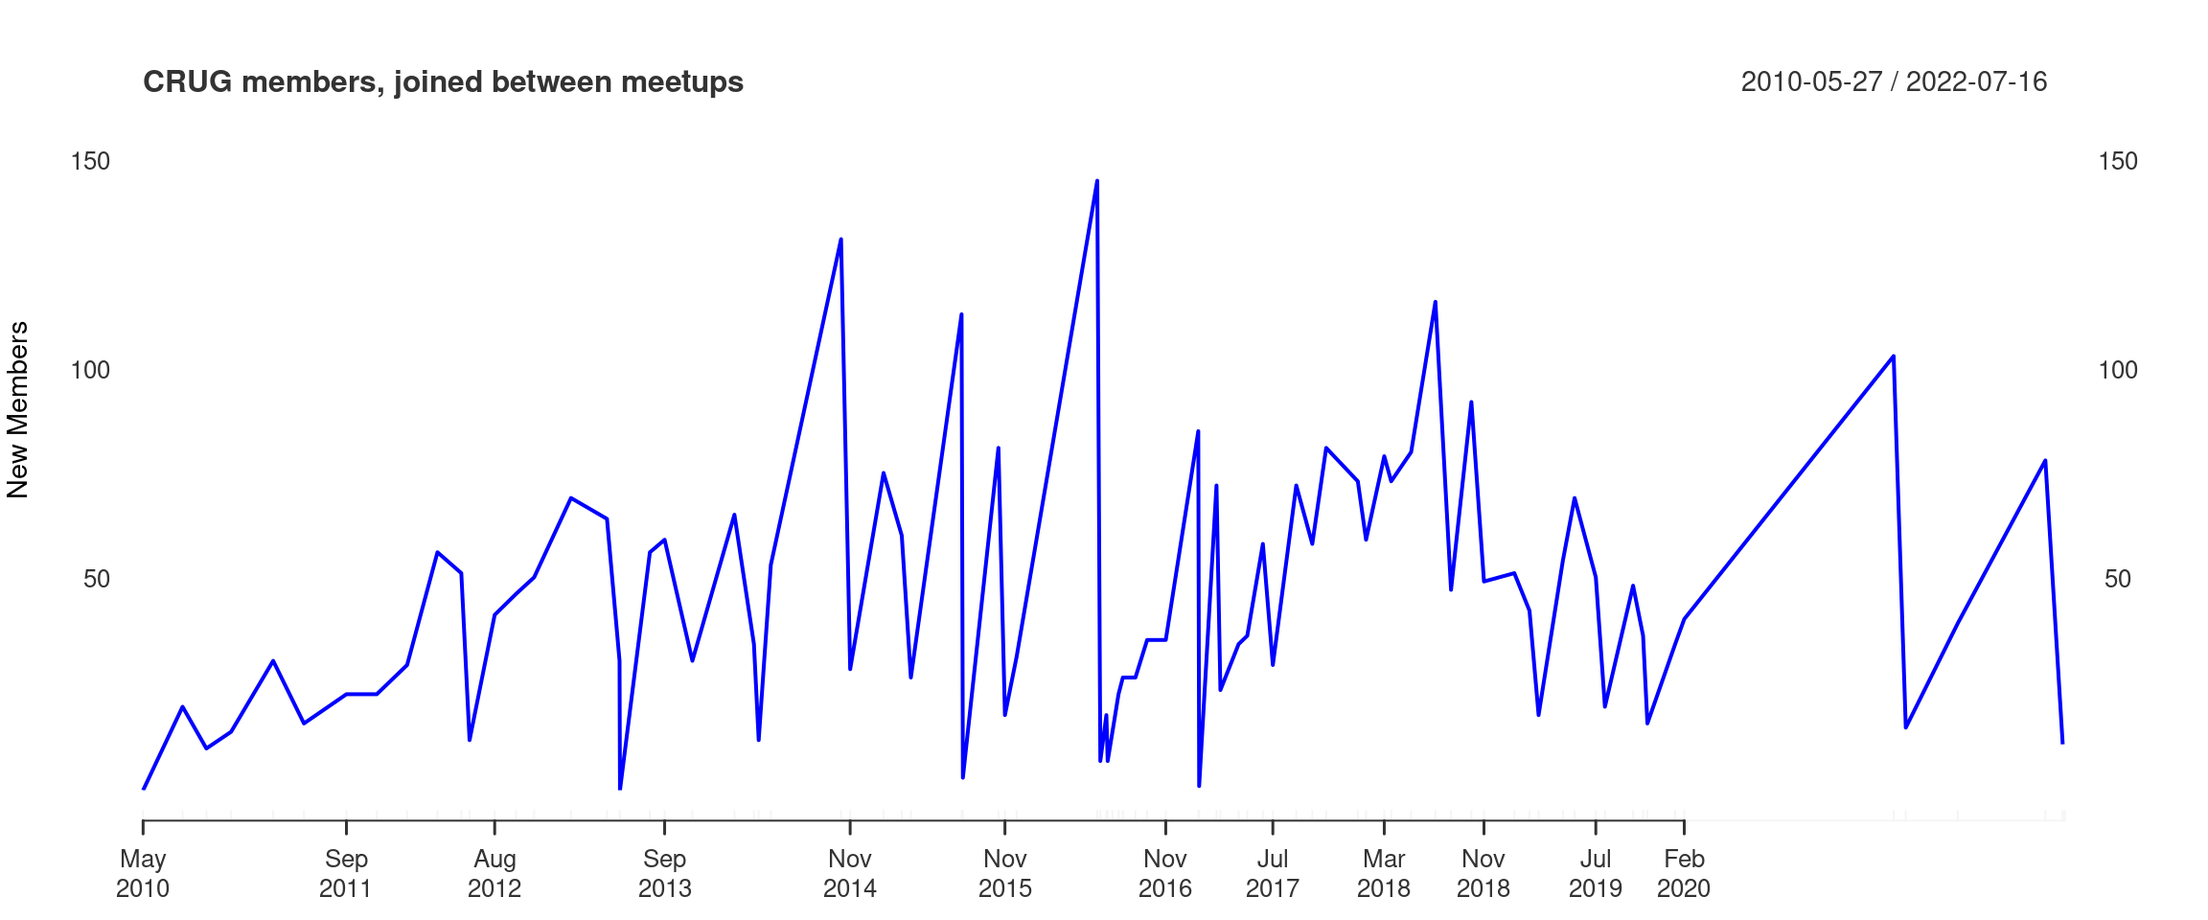
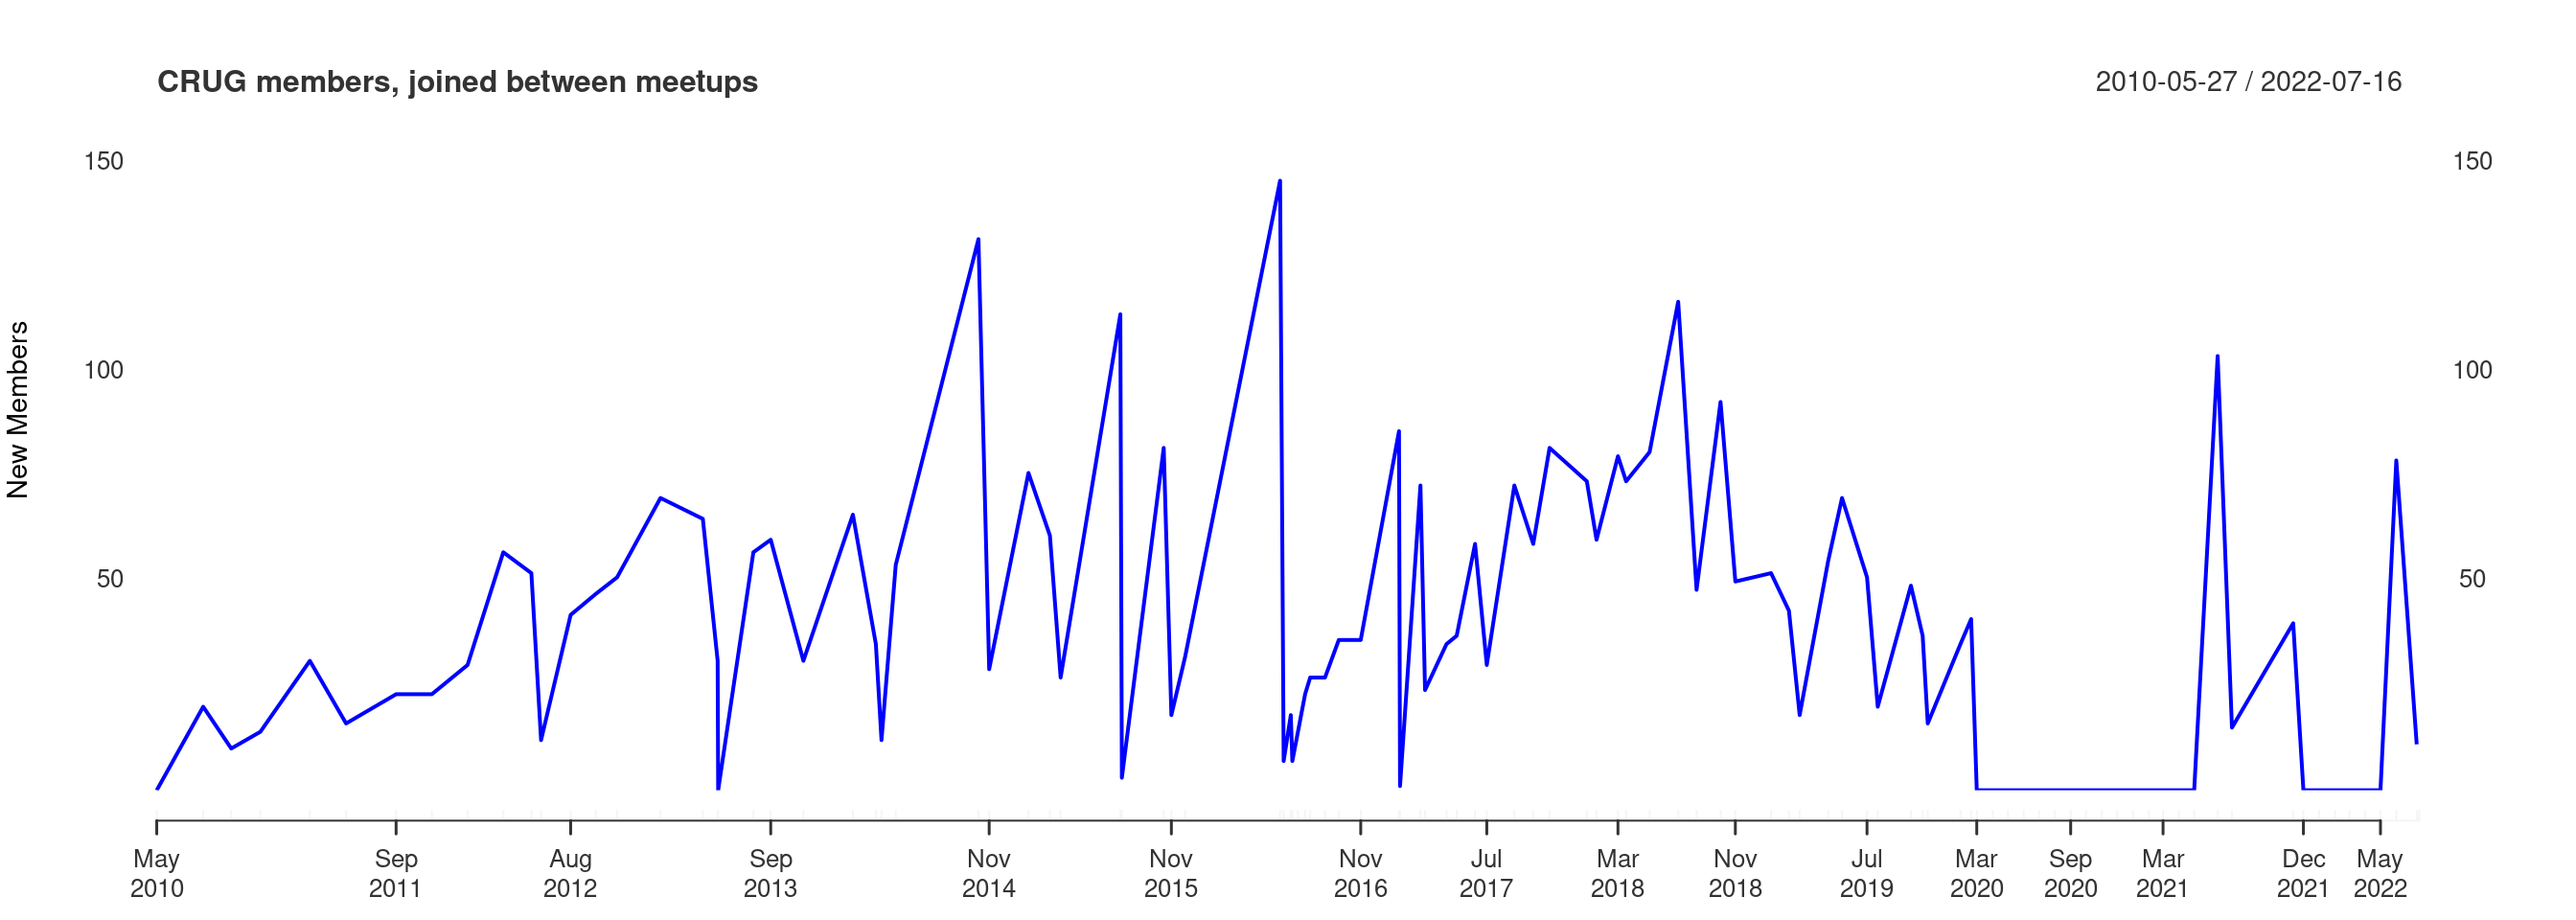
Fix xts time series plot x-axis cut off

diff --git a/index.html b/index.html
@@ -909,7 +909,7 @@ CRUG Attendance Shiny App
 <h1>Membership Data Analysis</h1>
 <p><img src="index_files/figure-html/unnamed-chunk-9-1.png" width="1152" /></p>
 <p><img src="index_files/figure-html/unnamed-chunk-11-1.png" width="1152" /></p>
-<p><img src="index_files/figure-html/unnamed-chunk-12-1.png" width="1152" /></p>
+<p><img src="index_files/figure-html/unnamed-chunk-12-1.png" width="1344" /></p>
 <p><img src="index_files/figure-html/unnamed-chunk-13-1.png" width="1152" /></p>
 <p><img src="index_files/figure-html/unnamed-chunk-14-1.png" width="1152" /></p>
 <table class="table table-striped table-hover" style="margin-left: auto; margin-right: auto;">
@@ -1539,8 +1539,8 @@ Median
 <p><img src="index_files/figure-html/unnamed-chunk-17-1.png" width="1152" /></p>
 <p><br/> <br/></p>
 <div align="center">
-<div id="htmlwidget-5ff38d5bbf334e5b6abb" style="width:100%;height:400px;" class="plotly html-widget"></div>
-<script type="application/json" data-for="htmlwidget-5ff38d5bbf334e5b6abb">{"x":{"visdat":{"b448386731ee":["function () ","plotlyVisDat"]},"cur_data":"b448386731ee","attrs":{"b448386731ee":{"locationmode":"USA-states","alpha_stroke":1,"sizes":[10,100],"spans":[1,20],"z":{},"text":{},"locations":{},"color":{},"colors":"Blues","inherit":true}},"layout":{"margin":{"b":40,"l":5,"t":40,"r":10},"mapType":"geo","scene":{"zaxis":{"title":"Member.ID"}},"geo":{"domain":{"x":[0,1],"y":[0,1]},"scope":"usa","projection":{"type":"albers usa"},"showlakes":true,"lakecolor":"rgba(255,255,255,1)"},"hovermode":"closest","showlegend":false,"legend":{"yanchor":"top","y":0.5},"width":1000,"height":500,"title":"CRUG Members' Locations Across US","font":{"family":"Arial","size":14,"color":"blue"}},"source":"A","config":{"modeBarButtonsToAdd":["hoverclosest","hovercompare"],"showSendToCloud":false},"data":[{"colorbar":{"title":"Members","ticklen":2,"len":0.5,"lenmode":"fraction","y":1,"yanchor":"top"},"colorscale":[["0","rgba(247,251,255,1)"],["0.0416666666666667","rgba(239,246,252,1)"],["0.0833333333333333","rgba(230,240,250,1)"],["0.125","rgba(222,235,247,1)"],["0.166666666666667","rgba(214,230,244,1)"],["0.208333333333333","rgba(206,224,242,1)"],["0.25","rgba(198,219,239,1)"],["0.291666666666667","rgba(185,213,234,1)"],["0.333333333333333","rgba(172,208,230,1)"],["0.375","rgba(158,202,225,1)"],["0.416666666666667","rgba(142,193,221,1)"],["0.458333333333333","rgba(125,183,218,1)"],["0.5","rgba(107,174,214,1)"],["0.541666666666667","rgba(94,165,209,1)"],["0.583333333333333","rgba(81,155,203,1)"],["0.625","rgba(66,146,198,1)"],["0.666666666666667","rgba(57,135,192,1)"],["0.708333333333333","rgba(46,124,187,1)"],["0.75","rgba(33,113,181,1)"],["0.791666666666667","rgba(27,102,173,1)"],["0.833333333333333","rgba(19,91,164,1)"],["0.875","rgba(8,81,156,1)"],["0.916666666666667","rgba(9,70,139,1)"],["0.958333333333333","rgba(9,59,123,1)"],["1","rgba(8,48,107,1)"]],"showscale":true,"locationmode":"USA-states","z":[1,3,8,2,138,9,4,19,18,15,4,3244,23,3,25,9,16,9,10,11,1,12,1,68,13,9,6,13,1,1,1,1,1,4,23,6,8,1,44,31],"text":["AA","AR","AZ","BC","CA","CO","CT","DC","FL","GA","IA","IL","IN","KY","MA","MD","MI","MN","MO","NC","NE","NJ","NV","NY","OH","ON","OR","PA","PD","QC","RI","RM","SC","TN","TX","UT","VA","VT","WA","WI"],"locations":["AA","AR","AZ","BC","CA","CO","CT","DC","FL","GA","IA","IL","IN","KY","MA","MD","MI","MN","MO","NC","NE","NJ","NV","NY","OH","ON","OR","PA","PD","QC","RI","RM","SC","TN","TX","UT","VA","VT","WA","WI"],"type":"choropleth","marker":{"line":{"colorbar":{"title":"","ticklen":2},"cmin":1,"cmax":3244,"colorscale":[["0","rgba(247,251,255,1)"],["0.0416666666666667","rgba(239,246,252,1)"],["0.0833333333333333","rgba(230,240,250,1)"],["0.125","rgba(222,235,247,1)"],["0.166666666666667","rgba(214,230,244,1)"],["0.208333333333333","rgba(206,224,242,1)"],["0.25","rgba(198,219,239,1)"],["0.291666666666667","rgba(185,213,234,1)"],["0.333333333333333","rgba(172,208,230,1)"],["0.375","rgba(158,202,225,1)"],["0.416666666666667","rgba(142,193,221,1)"],["0.458333333333333","rgba(125,183,218,1)"],["0.5","rgba(107,174,214,1)"],["0.541666666666667","rgba(94,165,209,1)"],["0.583333333333333","rgba(81,155,203,1)"],["0.625","rgba(66,146,198,1)"],["0.666666666666667","rgba(57,135,192,1)"],["0.708333333333333","rgba(46,124,187,1)"],["0.75","rgba(33,113,181,1)"],["0.791666666666667","rgba(27,102,173,1)"],["0.833333333333333","rgba(19,91,164,1)"],["0.875","rgba(8,81,156,1)"],["0.916666666666667","rgba(9,70,139,1)"],["0.958333333333333","rgba(9,59,123,1)"],["1","rgba(8,48,107,1)"]],"showscale":false,"color":[1,3,8,2,138,9,4,19,18,15,4,3244,23,3,25,9,16,9,10,11,1,12,1,68,13,9,6,13,1,1,1,1,1,4,23,6,8,1,44,31]}},"geo":"geo","frame":null}],"highlight":{"on":"plotly_click","persistent":false,"dynamic":false,"selectize":false,"opacityDim":0.2,"selected":{"opacity":1},"debounce":0},"shinyEvents":["plotly_hover","plotly_click","plotly_selected","plotly_relayout","plotly_brushed","plotly_brushing","plotly_clickannotation","plotly_doubleclick","plotly_deselect","plotly_afterplot","plotly_sunburstclick"],"base_url":"https://plot.ly"},"evals":[],"jsHooks":[]}</script>
+<div id="htmlwidget-c65fd16dc750c472dc0d" style="width:100%;height:400px;" class="plotly html-widget"></div>
+<script type="application/json" data-for="htmlwidget-c65fd16dc750c472dc0d">{"x":{"visdat":{"1cdf3b12f1b7":["function () ","plotlyVisDat"]},"cur_data":"1cdf3b12f1b7","attrs":{"1cdf3b12f1b7":{"locationmode":"USA-states","alpha_stroke":1,"sizes":[10,100],"spans":[1,20],"z":{},"text":{},"locations":{},"color":{},"colors":"Blues","inherit":true}},"layout":{"margin":{"b":40,"l":5,"t":40,"r":10},"mapType":"geo","scene":{"zaxis":{"title":"Member.ID"}},"geo":{"domain":{"x":[0,1],"y":[0,1]},"scope":"usa","projection":{"type":"albers usa"},"showlakes":true,"lakecolor":"rgba(255,255,255,1)"},"hovermode":"closest","showlegend":false,"legend":{"yanchor":"top","y":0.5},"width":1000,"height":500,"title":"CRUG Members' Locations Across US","font":{"family":"Arial","size":14,"color":"blue"}},"source":"A","config":{"modeBarButtonsToAdd":["hoverclosest","hovercompare"],"showSendToCloud":false},"data":[{"colorbar":{"title":"Members","ticklen":2,"len":0.5,"lenmode":"fraction","y":1,"yanchor":"top"},"colorscale":[["0","rgba(247,251,255,1)"],["0.0416666666666667","rgba(239,246,252,1)"],["0.0833333333333333","rgba(230,240,250,1)"],["0.125","rgba(222,235,247,1)"],["0.166666666666667","rgba(214,230,244,1)"],["0.208333333333333","rgba(206,224,242,1)"],["0.25","rgba(198,219,239,1)"],["0.291666666666667","rgba(185,213,234,1)"],["0.333333333333333","rgba(172,208,230,1)"],["0.375","rgba(158,202,225,1)"],["0.416666666666667","rgba(142,193,221,1)"],["0.458333333333333","rgba(125,183,218,1)"],["0.5","rgba(107,174,214,1)"],["0.541666666666667","rgba(94,165,209,1)"],["0.583333333333333","rgba(81,155,203,1)"],["0.625","rgba(66,146,198,1)"],["0.666666666666667","rgba(57,135,192,1)"],["0.708333333333333","rgba(46,124,187,1)"],["0.75","rgba(33,113,181,1)"],["0.791666666666667","rgba(27,102,173,1)"],["0.833333333333333","rgba(19,91,164,1)"],["0.875","rgba(8,81,156,1)"],["0.916666666666667","rgba(9,70,139,1)"],["0.958333333333333","rgba(9,59,123,1)"],["1","rgba(8,48,107,1)"]],"showscale":true,"locationmode":"USA-states","z":[1,3,8,2,138,9,4,19,18,15,4,3244,23,3,25,9,16,9,10,11,1,12,1,68,13,9,6,13,1,1,1,1,1,4,23,6,8,1,44,31],"text":["AA","AR","AZ","BC","CA","CO","CT","DC","FL","GA","IA","IL","IN","KY","MA","MD","MI","MN","MO","NC","NE","NJ","NV","NY","OH","ON","OR","PA","PD","QC","RI","RM","SC","TN","TX","UT","VA","VT","WA","WI"],"locations":["AA","AR","AZ","BC","CA","CO","CT","DC","FL","GA","IA","IL","IN","KY","MA","MD","MI","MN","MO","NC","NE","NJ","NV","NY","OH","ON","OR","PA","PD","QC","RI","RM","SC","TN","TX","UT","VA","VT","WA","WI"],"type":"choropleth","marker":{"line":{"colorbar":{"title":"","ticklen":2},"cmin":1,"cmax":3244,"colorscale":[["0","rgba(247,251,255,1)"],["0.0416666666666667","rgba(239,246,252,1)"],["0.0833333333333333","rgba(230,240,250,1)"],["0.125","rgba(222,235,247,1)"],["0.166666666666667","rgba(214,230,244,1)"],["0.208333333333333","rgba(206,224,242,1)"],["0.25","rgba(198,219,239,1)"],["0.291666666666667","rgba(185,213,234,1)"],["0.333333333333333","rgba(172,208,230,1)"],["0.375","rgba(158,202,225,1)"],["0.416666666666667","rgba(142,193,221,1)"],["0.458333333333333","rgba(125,183,218,1)"],["0.5","rgba(107,174,214,1)"],["0.541666666666667","rgba(94,165,209,1)"],["0.583333333333333","rgba(81,155,203,1)"],["0.625","rgba(66,146,198,1)"],["0.666666666666667","rgba(57,135,192,1)"],["0.708333333333333","rgba(46,124,187,1)"],["0.75","rgba(33,113,181,1)"],["0.791666666666667","rgba(27,102,173,1)"],["0.833333333333333","rgba(19,91,164,1)"],["0.875","rgba(8,81,156,1)"],["0.916666666666667","rgba(9,70,139,1)"],["0.958333333333333","rgba(9,59,123,1)"],["1","rgba(8,48,107,1)"]],"showscale":false,"color":[1,3,8,2,138,9,4,19,18,15,4,3244,23,3,25,9,16,9,10,11,1,12,1,68,13,9,6,13,1,1,1,1,1,4,23,6,8,1,44,31]}},"geo":"geo","frame":null}],"highlight":{"on":"plotly_click","persistent":false,"dynamic":false,"selectize":false,"opacityDim":0.2,"selected":{"opacity":1},"debounce":0},"shinyEvents":["plotly_hover","plotly_click","plotly_selected","plotly_relayout","plotly_brushed","plotly_brushing","plotly_clickannotation","plotly_doubleclick","plotly_deselect","plotly_afterplot","plotly_sunburstclick"],"base_url":"https://plot.ly"},"evals":[],"jsHooks":[]}</script>
 </div>
 <p><br/> <br/></p>
 </div>
